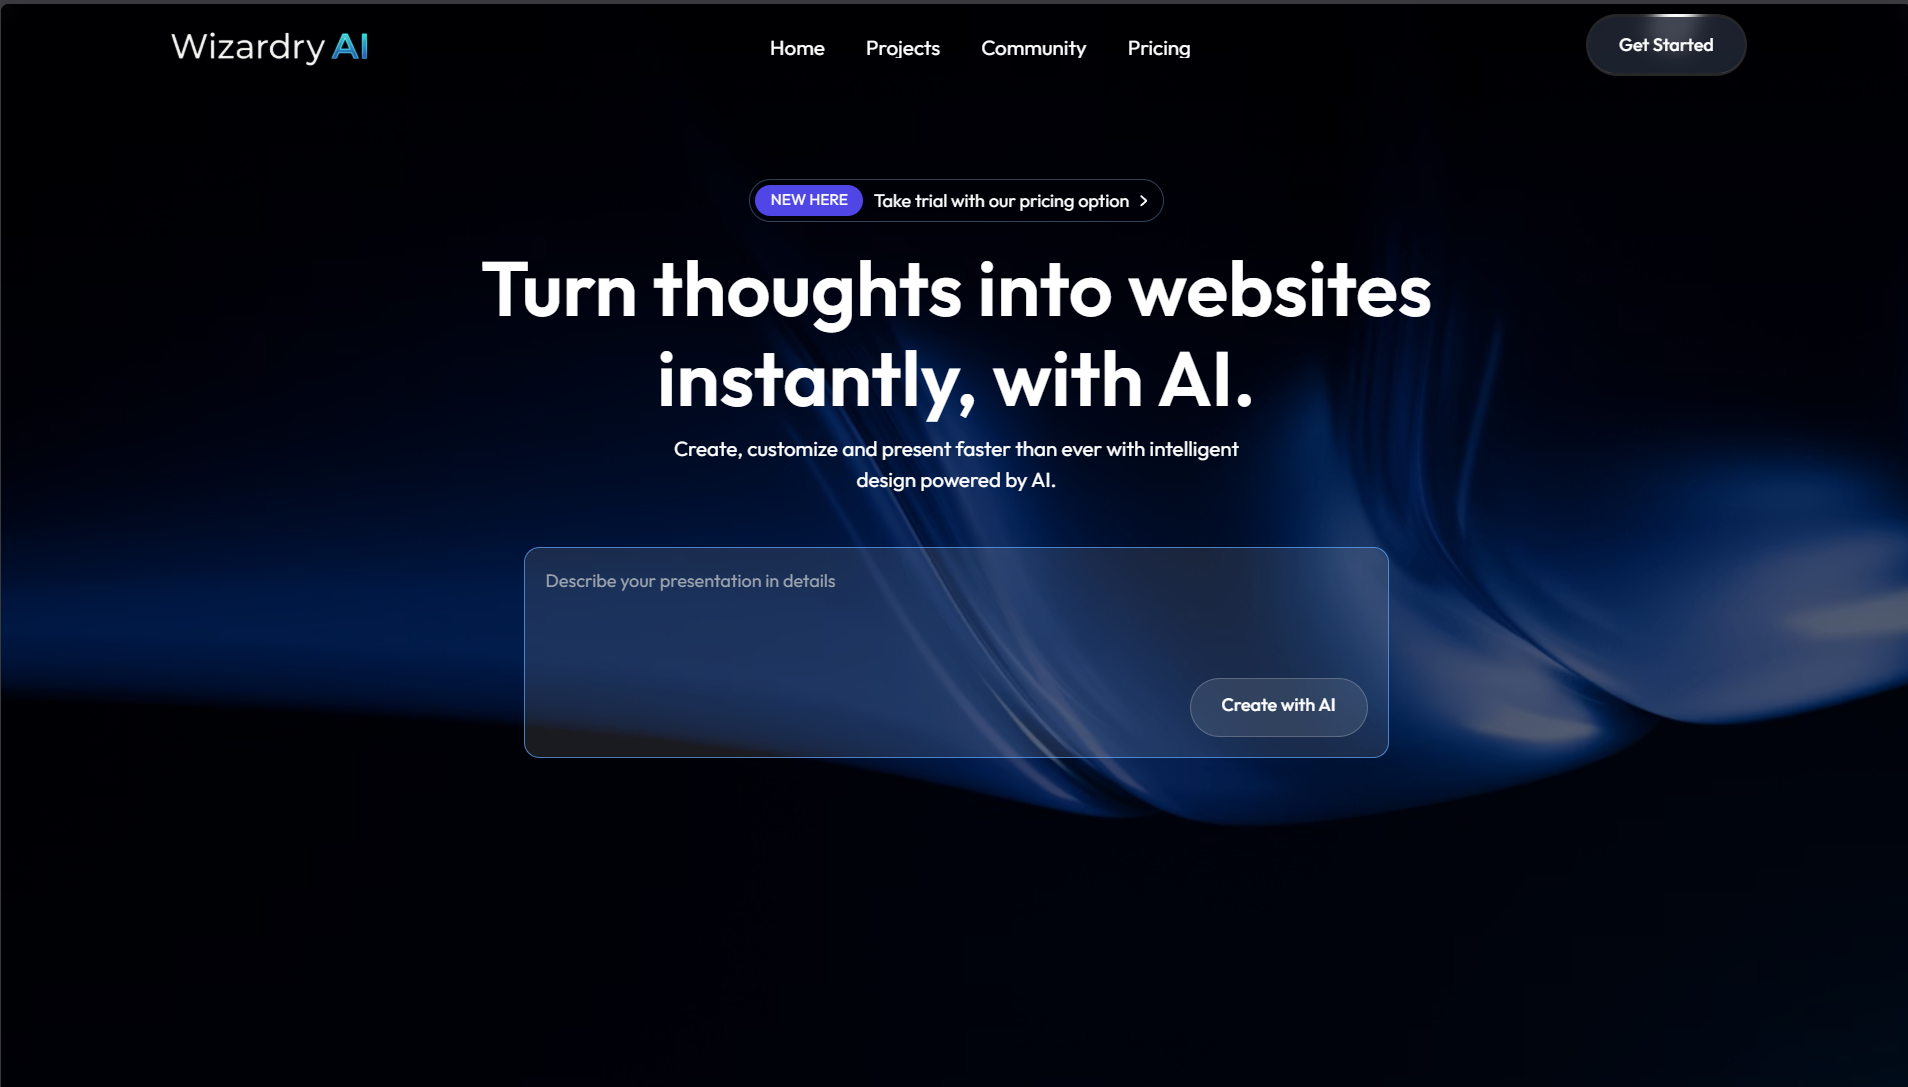
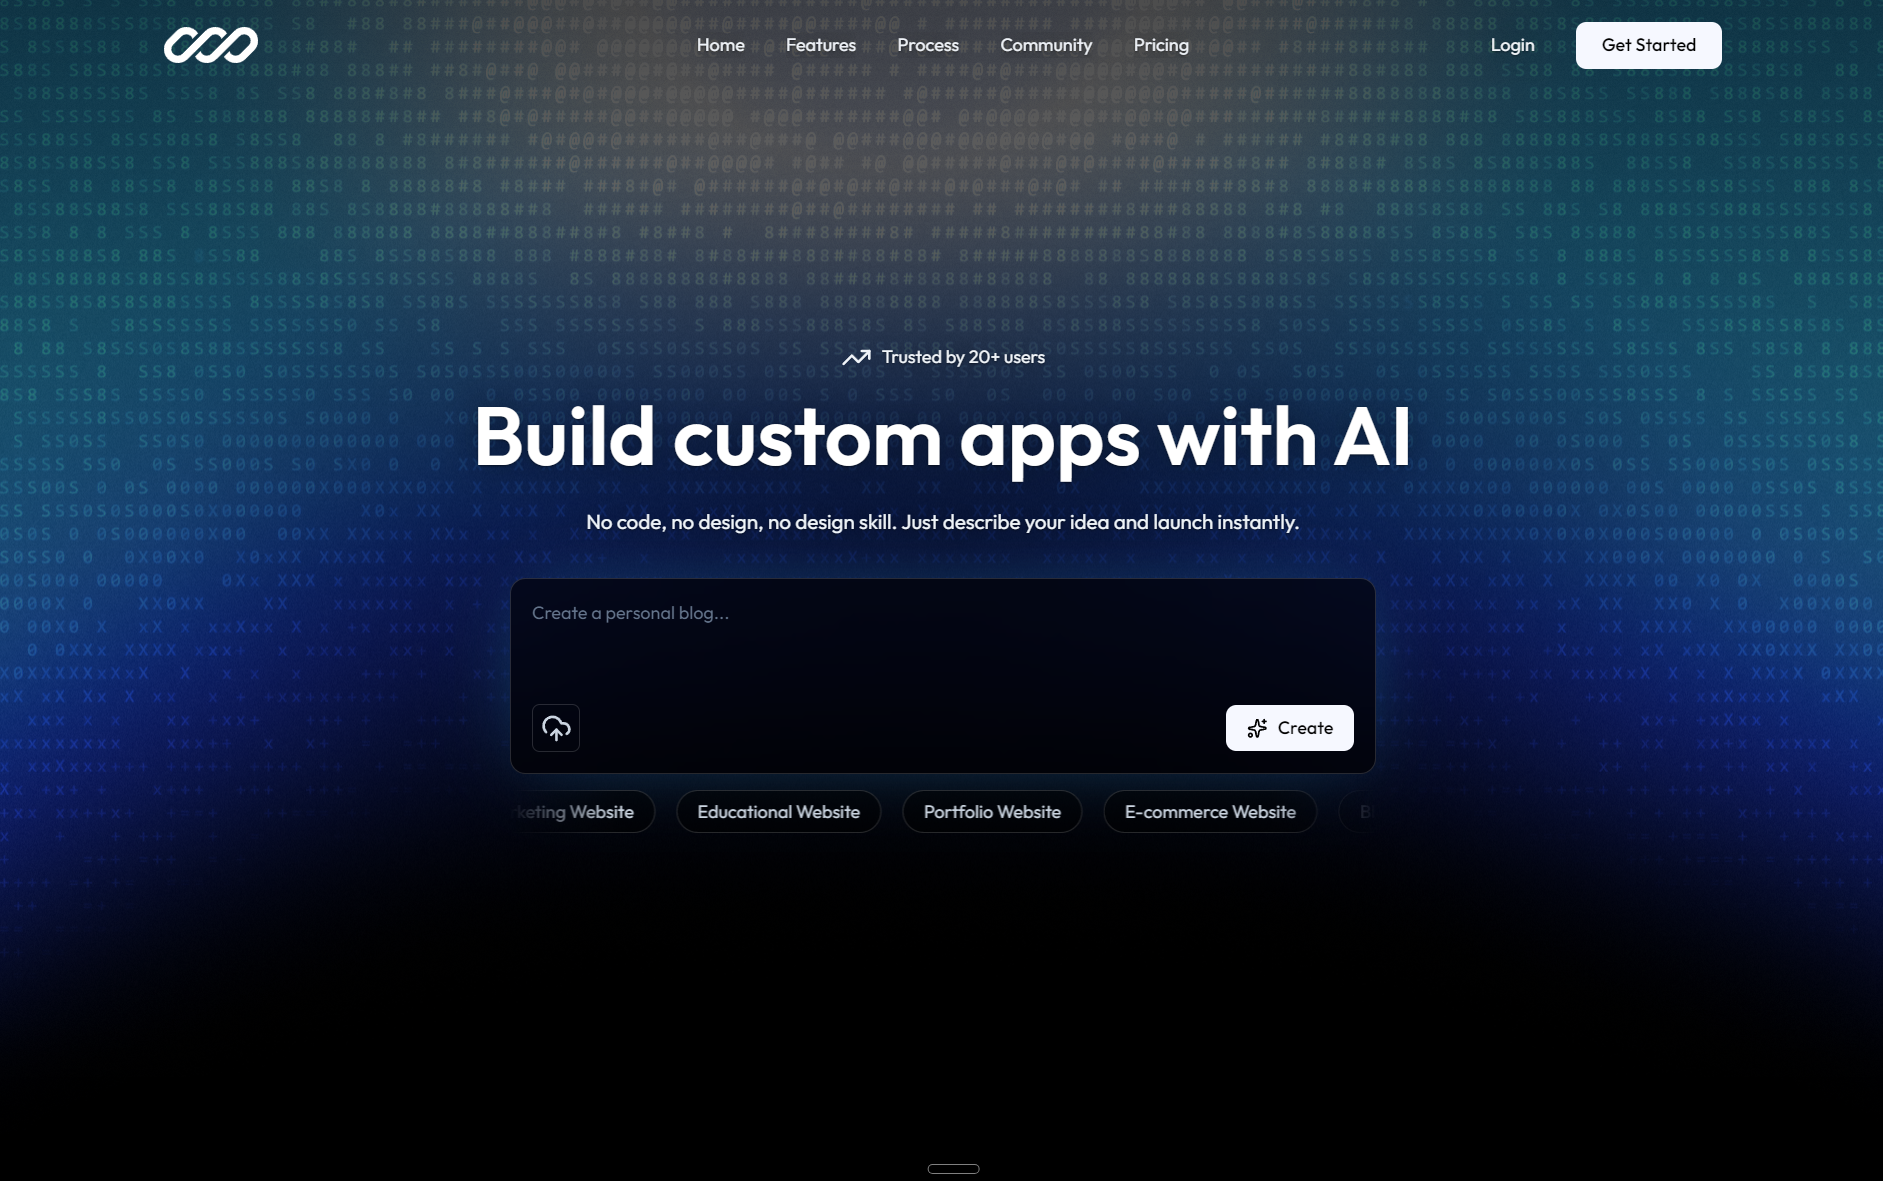
update : fix nextjs error and image update

diff --git a/app/layout.tsx b/app/layout.tsx
@@ -44,6 +44,9 @@ export const metadata: Metadata = {
   creator: siteMetadata.author,
   publisher: siteMetadata.author,
   alternates: { canonical: "/" },
+  other: {
+    "darkreader-lock": "",
+  },
   robots: {
     index: true,
     follow: true,
@@ -135,7 +138,7 @@ export default function RootLayout({
 }>) {
   return (
     <html lang="en" suppressHydrationWarning>
-      <body className={`${doppioOne.variable} ${inter.variable}`}>
+      <body className={`${doppioOne.variable} ${inter.variable}`} suppressHydrationWarning>
         {/* See BOOTSTRAP_SCRIPT above — pre-paint theme + scroll-restoration bootstrap. */}
         <script
           dangerouslySetInnerHTML={{
